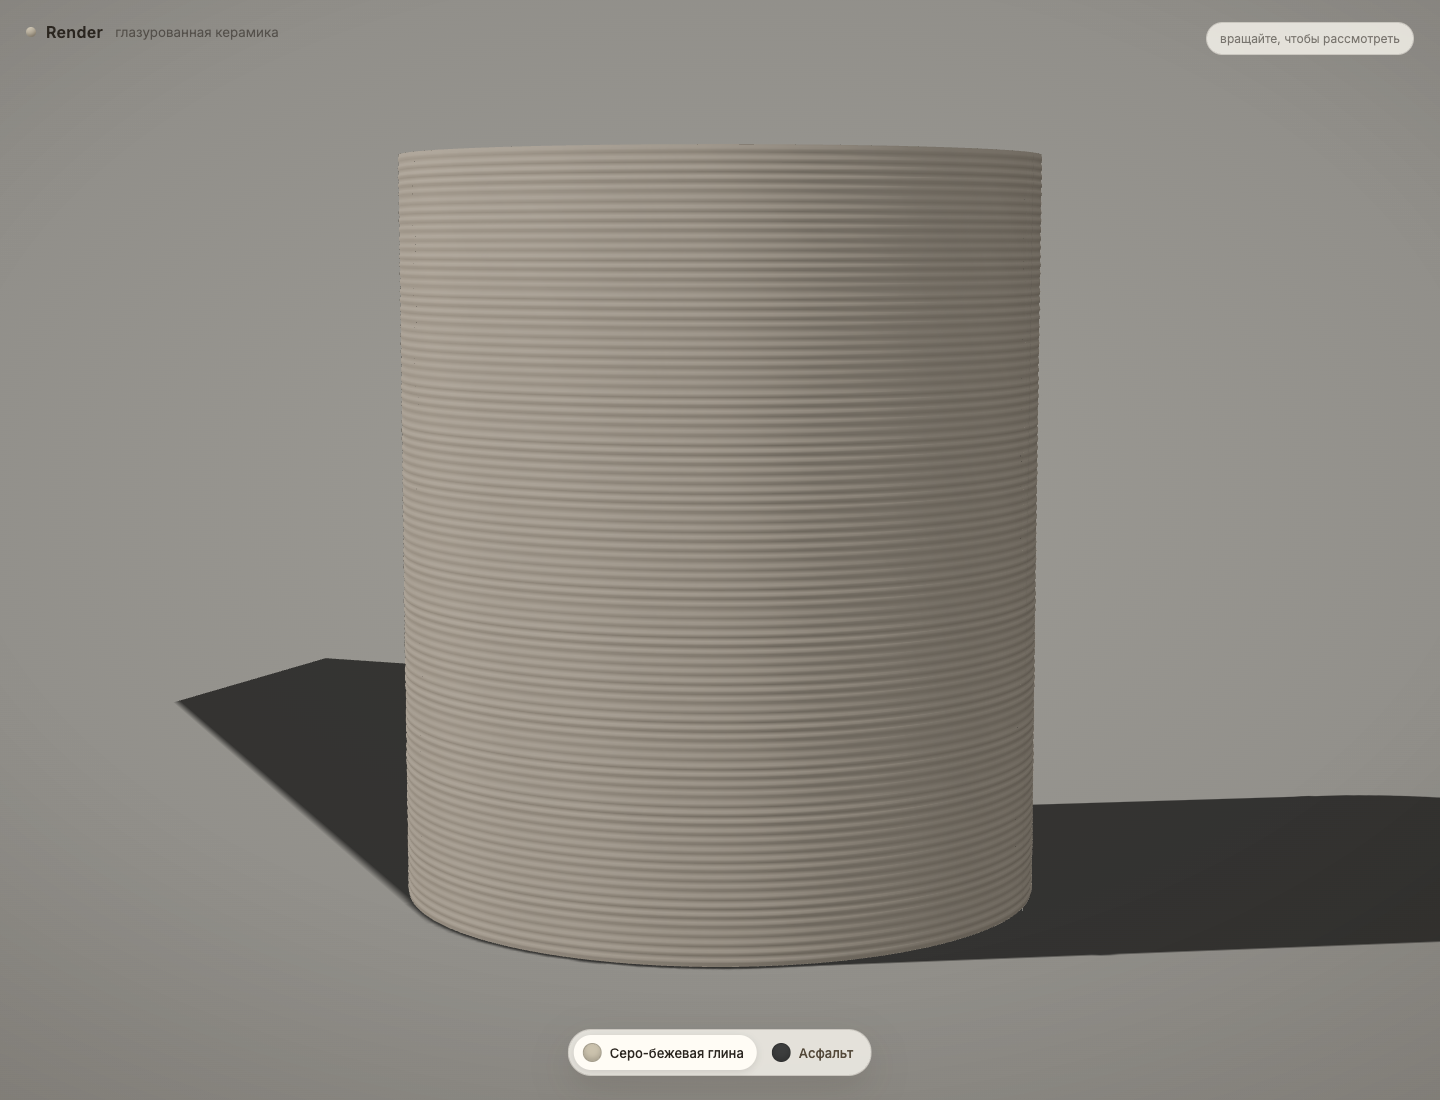
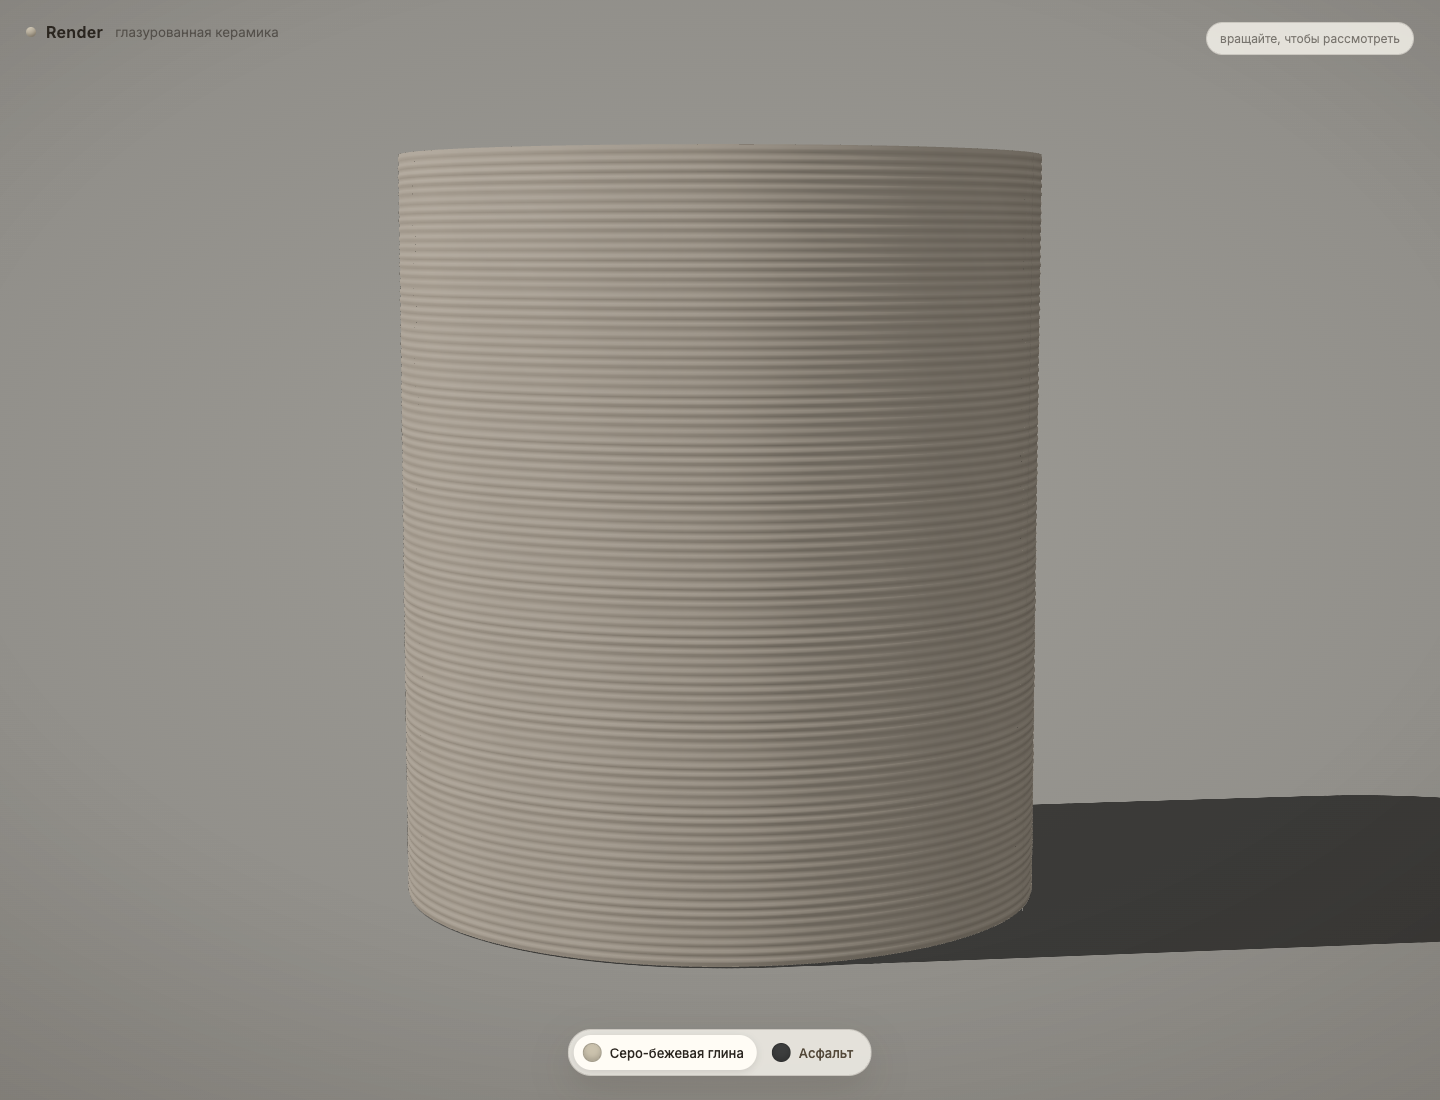
One high-res soft key shadow instead of overlapping shadow maps

Changed region(s): [[0.125, 0.5873, 0.3125, 0.8345]]

diff --git a/src/main.js b/src/main.js
@@ -55,10 +55,10 @@ pmrem.dispose();
  *  - broad cool fill right/front, 25-40% of key;
  *  - weak overhead source for the rim/interior.
  *
- * Area lights cannot cast shadow maps in three.js, so each large source gets a
- * low-intensity directional "shadow carrier" with a big PCF radius. Several
- * overlapping carriers produce the blurred, softbox-like penumbra instead of a
- * single hard shadow.
+ * Area lights cannot cast shadow maps in three.js. One low-intensity
+ * directional "shadow carrier" follows the key softbox and produces the
+ * geometric shadow; a high-res shadow map plus a wide PCF radius keeps it
+ * diffuse instead of graphic.
  */
 RectAreaLightUniformsLib.init();
 
@@ -97,26 +97,20 @@ for (const cfg of studioLights) {
   scene.add(light);
 }
 
-const carrierConfigs = [
-  { color: 0xfffaf2, intensity: 0.3, size: 2048, radius: 20, position: [-300, 330, 170] },
-  { color: 0xf8fafb, intensity: 0.12, size: 1024, radius: 24, position: [300, 190, 310] },
-  { color: 0xffffff, intensity: 0.05, size: 1024, radius: 28, position: [0, 420, 80] },
-];
-for (const c of carrierConfigs) {
-  const dir = new THREE.DirectionalLight(c.color, c.intensity);
-  dir.position.set(...c.position);
-  dir.castShadow = true;
-  dir.shadow.mapSize.set(c.size, c.size);
-  dir.shadow.camera.near = 10;
-  dir.shadow.camera.far = 900;
-  dir.shadow.camera.left = -240;
-  dir.shadow.camera.right = 240;
-  dir.shadow.camera.top = 240;
-  dir.shadow.camera.bottom = -240;
-  dir.shadow.bias = -0.00015;
-  dir.shadow.radius = c.radius;
-  scene.add(dir);
-}
+const shadowCarrier = new THREE.DirectionalLight(0xfffaf2, 0.55);
+shadowCarrier.position.set(-300, 330, 170);
+shadowCarrier.castShadow = true;
+shadowCarrier.shadow.mapSize.set(4096, 4096);
+shadowCarrier.shadow.camera.near = 10;
+shadowCarrier.shadow.camera.far = 900;
+shadowCarrier.shadow.camera.left = -150;
+shadowCarrier.shadow.camera.right = 150;
+shadowCarrier.shadow.camera.top = 150;
+shadowCarrier.shadow.camera.bottom = -150;
+shadowCarrier.shadow.bias = -0.00008;
+shadowCarrier.shadow.normalBias = 0.02;
+shadowCarrier.shadow.radius = 35;
+scene.add(shadowCarrier);
 
 const cupGroup = new THREE.Group();
 cupGroup.scale.setScalar(1000); // GLB is metres; the studio works in millimetres.
@@ -130,8 +124,8 @@ scene.add(cupGroup);
  */
 
 const shadowCatcher = new THREE.Mesh(
-  new THREE.PlaneGeometry(260, 260).rotateX(-Math.PI / 2),
-  new THREE.ShadowMaterial({ opacity: 0.65 })
+  new THREE.PlaneGeometry(760, 760).rotateX(-Math.PI / 2),
+  new THREE.ShadowMaterial({ opacity: 0.6 })
 );
 shadowCatcher.position.y = -0.15;
 shadowCatcher.receiveShadow = true;
